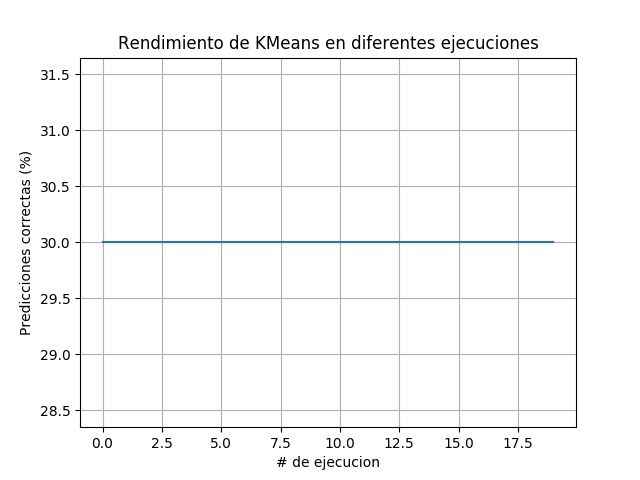
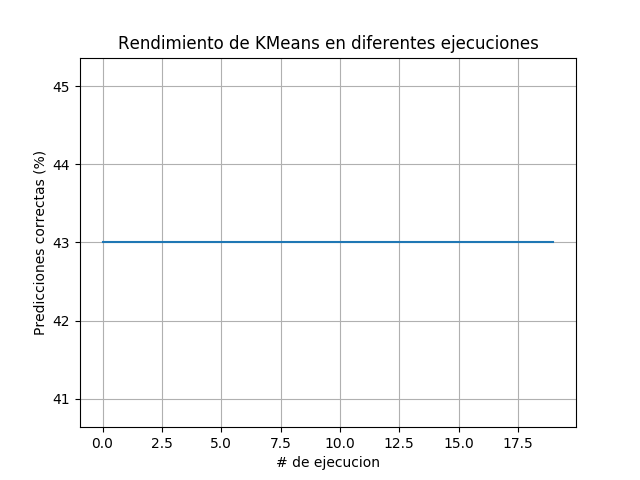
Listo

diff --git a/Main.py b/Main.py
@@ -12,10 +12,6 @@ import mahotas
     
 def extraccion(image):
     
-    ##TRANSFORMACION
-    #Recordar hacer la transformacion de la imagen con el programa Transformacion.py
-    image = cv2.resize(image, (500, 400))         #Convertir la imagen de 1220x1080 a 500x400
-    
     ##PRE PROCESAMIENTO
     aux = cv2.cvtColor(image, cv2.COLOR_BGR2GRAY) #Convertir a escala de grises
     
@@ -32,11 +28,10 @@ def extraccion(image):
     
     ##ANALISIS DE LAS CARACTERISTICAS
     #PARA MOMENTOS DE HU
-    return aux, [hu[0], hu[1], hu[3]]
+    return aux, [hu[0], hu[1]]
 
 #Analisis de la base de datos (YTrain)
 ##Entrenamiento de la base de datos 
-punto = io.ImageCollection('./Imagenes/Train/YPunto/*.png:./Imagenes/Train/YPunto/*.jpg')
 uno = io.ImageCollection('./Imagenes/Train/Y1/*.png:./Imagenes/Train/Y1/*.jpg')
 dos = io.ImageCollection('./Imagenes/Train/Y2/*.png:./Imagenes/Train/Y2/*.jpg')
 tres = io.ImageCollection('./Imagenes/Train/Y3/*.png:./Imagenes/Train/Y3/*.jpg')
@@ -58,16 +53,6 @@ class Elemento:
 #Analisis de datos
 datos = []
 i = 0
-
-# Analisis de la casilla vacia
-iter = 0
-for objeto in punto:
-    datos.append(Elemento())
-    datos[i].pieza = '.'
-    datos[i].image, datos[i].caracteristica = extraccion(objeto)
-    i += 1
-    iter += 1
-print("Puntos OK")
 
 # Analisis del numero uno
 iter = 0
@@ -174,35 +159,45 @@ for numero in range(81):
 
     nombre = './Imagenes/prueba'+str(numero)+'.png'
     image = io.imread(nombre)
+    
+    ##CONTADOR DE OBJETOS DENTRO DE LA IMAGEN CON ALGORITMO CANNY
+    bordes = cv2.Canny(image, 10, 140)                                                #Estos valores de umbrales se obtuvieron de prueba y error
+    ctns, _ = cv2.findContours(bordes, cv2.RETR_EXTERNAL,cv2.CHAIN_APPROX_SIMPLE)     #Para OpenCV4
+    contornos = len(ctns)
+    
+    if (contornos != 0): #Osea que es distinto a una casilla vacia -> en las casillas vacias el algoritmo marca cero porque no encuenta nada
+    
+        test.image, test.caracteristica = extraccion(image)
+        test.pieza = '1' # label inicial 
 
-    test.image, test.caracteristica = extraccion(image)
-    test.pieza = '1' # label inicial 
-
-    i = 0
-    sum = 0
-    for ft in datos[0].caracteristica:
-        sum = sum + np.power(np.abs(test.caracteristica[i] - ft), 2)
-        i += 1
-    d = np.sqrt(sum)
-
-    for element in datos:
-        sum = 0
         i = 0
-        for ft in (element.caracteristica):
-            sum = sum + np.power(np.abs((test.caracteristica[i]) - ft), 2)
+        sum = 0
+        for ft in datos[0].caracteristica:
+            sum = sum + np.power(np.abs(test.caracteristica[i] - ft), 2)
             i += 1
-    
-        element.distancia = np.sqrt(sum)
-    
-        if (sum < d):
-            d = sum
-            test.pieza = element.pieza
+        d = np.sqrt(sum)
 
+        for element in datos:
+            sum = 0
+            i = 0
+            for ft in (element.caracteristica):
+                sum = sum + np.power(np.abs((test.caracteristica[i]) - ft), 2)
+                i += 1
+    
+            element.distancia = np.sqrt(sum)
+    
+            if (sum < d):
+                d = sum
+                test.pieza = element.pieza
+    
+    else:
+        test.pieza = '.'
+        
     #print("Prediccion para KNN con K=1: ")    
     #print(test.pieza)
     if (numero == 0): vector =  str(test.pieza)
-    else: vector = vector + str(test.pieza) 
-    
+    else: vector = vector + str(test.pieza)
+        
 print(vector)
 #Aca trabajamos con manejadores de archivo
 archivo = open("vector.txt","w")

diff --git a/Resolvedor.py b/Resolvedor.py
@@ -81,6 +81,7 @@ def reduce_sudoku(values):
         if len([box for box in values.keys() if len(values[box]) == 0]):
             return False
     return values
+
 def search(values):
     values = reduce_sudoku(values)
     if values is False:
@@ -99,6 +100,7 @@ def search(values):
         attempt = search(nova_sudoku)
         if attempt:
             return attempt
+
 def solve(grid):
     # Create a dictionary of values from the grid
     values = grid_values(grid)
@@ -107,35 +109,15 @@ def solve(grid):
 #El main
 if __name__ == '__main__':
     
-    #Aca ingreso la disposicion a resolver
-    #sudoku_grid = '..5..96.......3.2.97......8.1...8...4...5...7...6...9.5......89.4.2.......25..1..'
-    
-    #Ingreso de fila individual
-    #linea1='.4./.../79.'
-    #linea2='9.6/..8/...'
-    #linea3='2../4../.56'
-    #linea4='164/.../9..'
-    #linea5='.../135/...'
-    #linea6='..8/.../271'
-    #linea7='67./..4/..9'
-    #linea8='.../6../1.7'
-    #linea9='.81/.../.2.'
-    #lineas = linea1 + linea2 + linea3 + linea4 + linea5 + linea6 + linea7 + linea8 + linea9
-    #lineas=lineas.translate(None,'/')
-    
-    #print(sudoku_grid)
-    #print(lineas)
-    
     #Con manejador de archivos
     archivo = open("vector.txt","r")
     lineas = archivo.read()
-    lineas = lineas.replace('\r', '').replace('\n', '')
+    #lineas = lineas.replace('\r', '').replace('\n', '')
     archivo.close() 
     
     print ("original:")
-    #display(grid_values_original(sudoku_grid))
     display(grid_values_original(lineas))
     print (" ")
     print ("solucion:")
-    #display(solve(sudoku_grid))
     display(solve(lineas))
+

diff --git a/Rendimiento.py b/Rendimiento.py
@@ -12,6 +12,11 @@ def extraccion(image):
     #image = cv2.resize(image, (60, 55))          #Convertir la imagen a 60x55
     aux = cv2.cvtColor(image, cv2.COLOR_BGR2GRAY) #Convertir a escala de grises
     
+    ##CONTADOR DE OBJETOS DENTRO DE LA IMAGEN CON ALGORITMO CANNY
+    bordes = cv2.Canny(aux, 10, 140)                                                #Estos valores de umbrales se obtuvieron de prueba y error
+    ctns, _ = cv2.findContours(bordes, cv2.RETR_EXTERNAL,cv2.CHAIN_APPROX_SIMPLE)   #Para OpenCV4
+    contornos = len(ctns)
+    
     ##FILTRACION
     aux = cv2.GaussianBlur(aux, (3, 3), 0)   #Aplicar filtro gaussiano
     #aux = filters.sobel(aux)                 #Aplicar filtro Sobel o Laplaciano
@@ -26,7 +31,8 @@ def extraccion(image):
     
     ##ANALISIS DE LAS CARACTERISTICAS
     #PARA MOMENTOS DE HU
-    return aux, [hu[0], hu[1], hu[3]]
+    #return aux, [hu[0], hu[1], hu[3]]
+    return aux, [hu[0], hu[1], contornos]
 
 #Elemento de sudoku
 class Elemento:
